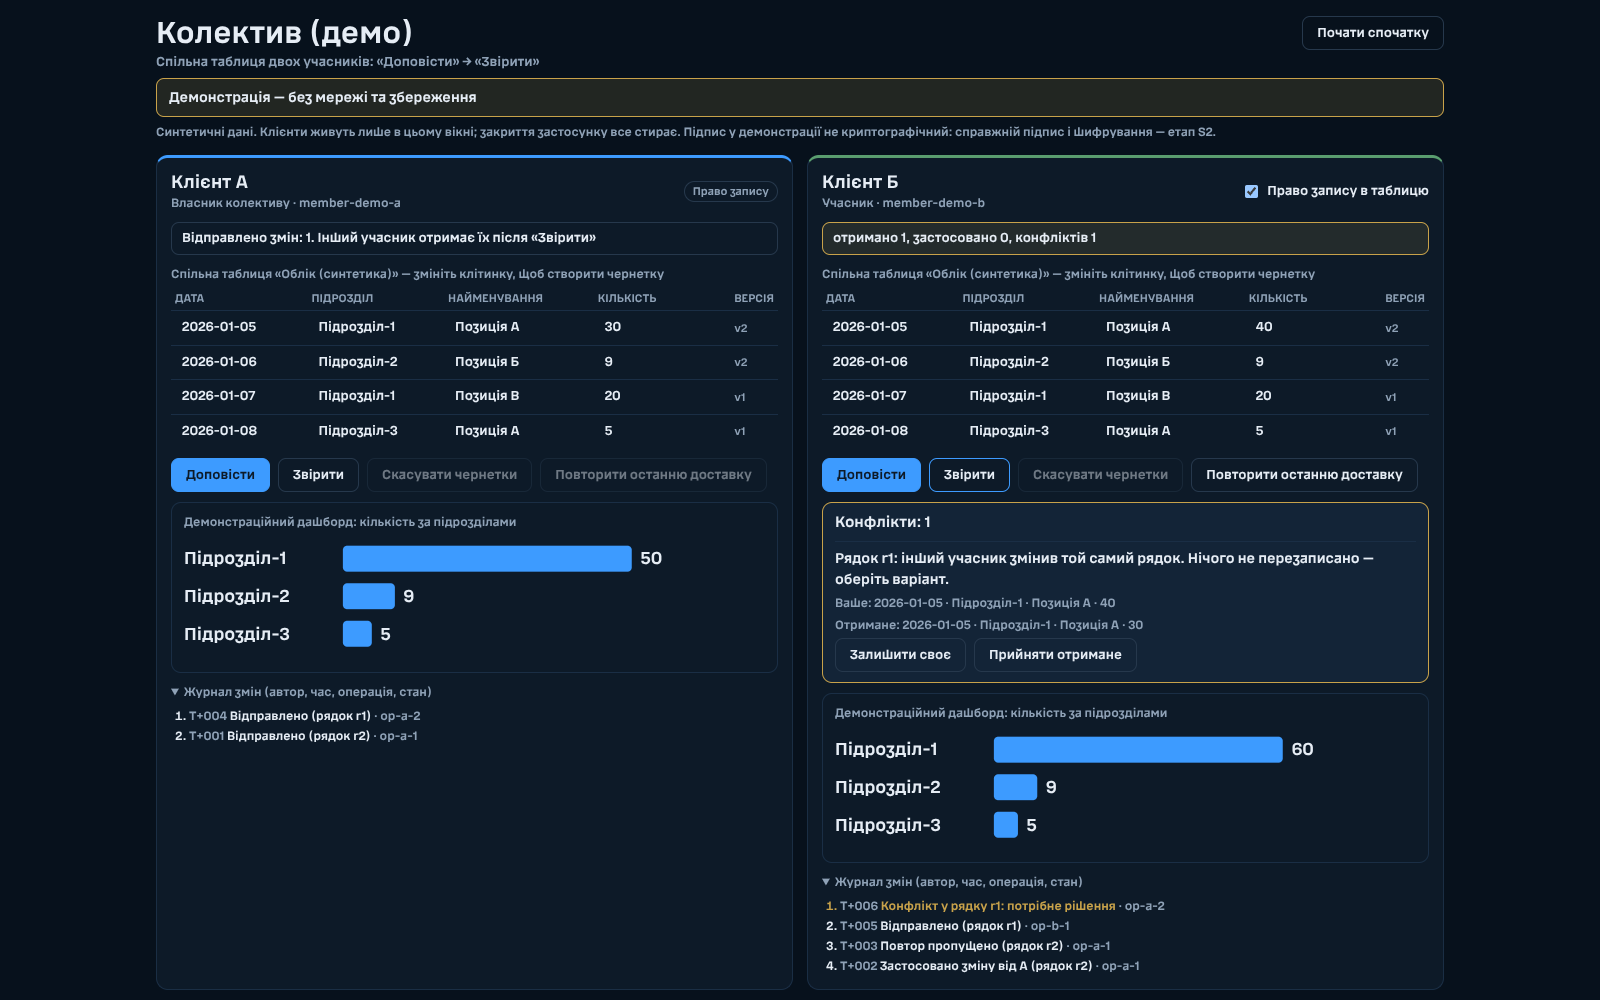
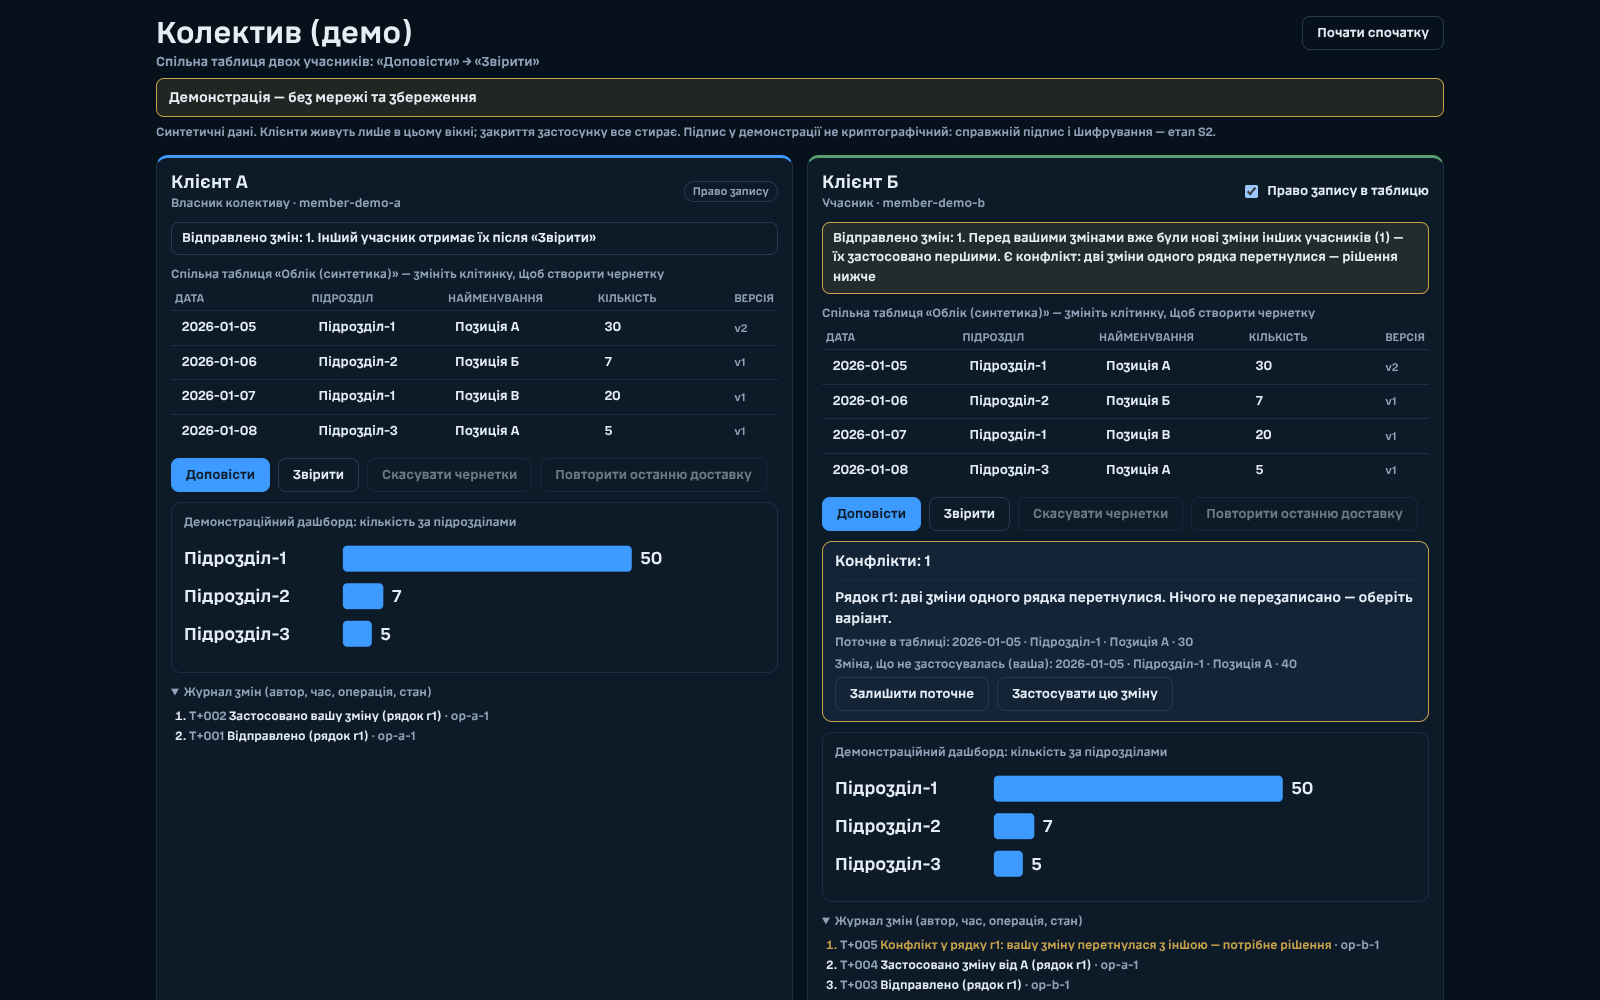
Колективи: демо застосовує операції в порядку журналу доставки — за рецензією C3
Свої операції клієнт застосовує в тому самому порядку, що й чужі, тож версії
рядків однакові в обох копіях, а перехресні правки дають однаковий конфлікт
замість мовчазного перезапису. Право запису перевіряється до чернетки
розв'язання; конфлікт збільшує ревізію таблиці; у тесті ізоляції — явний
перелік застосунків головного вікна. Регресійні тести.

Claude-Session: https://claude.ai/code/session_01UgydCL1Tj9zvxe8BSTeoMD

diff --git a/src/workspace/collective-demo/collective-demo-core.js b/src/workspace/collective-demo/collective-demo-core.js
@@ -2,8 +2,10 @@
 //
 // Логіку не дублюємо: операції, конфлікти й дублі — shared-table-core.js (C1b), перегляд і
 // фіксація «Доповісти» — report-submission-core.js (C1d), політики відправки й застосування —
-// sync-policy-core.js (C1d), маршрут за класом чутливості — sensitivity-core.js (C1a).
-// Тут лише стан двох демонстраційних клієнтів і «доставка» між ними.
+// sync-policy-core.js (C1d; маршрут за класом чутливості — sensitivity-core.js (C1a) через evaluateOutbound).
+// Тут лише стан двох демонстраційних клієнтів і «доставка» між ними. «Доставка» — один спільний
+// упорядкований журнал (як квитанції сховища): кожен клієнт застосовує операції саме в цьому порядку,
+// і свої теж, тому версії рядків однакові в усіх копіях, а перехресні правки дають конфлікт.
 //
 // Чесні межі S1 (наказ JE 29.10.2026):
 // - доставка — масив у пам'яті вікна, мережі немає; після закриття застосунку все зникає;
@@ -156,78 +158,82 @@ export function openReport(demo, clientId) {
   return { ok: true, preview: client.preview };
 }
 
-/** «Підтвердити» після перегляду: фіксація рівно показаних операцій, застосування в себе й «доставка». */
+/**
+ * «Підтвердити» після перегляду: фіксація рівно показаних операцій і «доставка» в спільний журнал.
+ * Свої операції застосовуються в порядку журналу разом із чужими, що прийшли раніше (як після
+ * квитанції сховища): якщо інший учасник устиг змінити той самий рядок, обидві копії побачать
+ * однаковий конфлікт, а не мовчазний перезапис.
+ */
 export function confirmReport(demo, clientId) {
   const client = demo.clients[clientId];
   const committed = commitReport(client.preview, { currentRevision: client.revision, confirmedDeletions: [] });
   if (!committed.ok) return committed;
-  // У себе операції застосовує те саме ядро, що й в отримувача; розв'язання конфлікту — через
-  // resolveConflict, який закриває саме названий конфлікт лише разом із застосуванням.
-  let table = client.table;
-  for (const op of committed.ops) {
-    const conflictId = client.resolutions[op.op_id];
-    const applied = conflictId
-      ? resolveConflict(table, conflictId, op, applyOptions(demo))
-      : applyOperation(table, op, applyOptions(demo));
-    if (applied.status !== 'applied') {
-      log(demo, client, 'rejected', `Не відправлено: ${reasonText(applied.reason)}`);
-      return { ok: false, code: applied.reason, reason: reasonText(applied.reason) };
-    }
-    table = applied.state;
-  }
-  client.table = table;
-  client.resolutions = {};
-  client.revision += 1;
-  for (const op of committed.ops) {
-    demo.channel.push({ op, from: clientId });
-    log(demo, client, 'stored', `Відправлено (рядок ${op.row_key})`, op.op_id);
-  }
+  const before = demo.channel.length;
+  for (const op of committed.ops) demo.channel.push({ op, from: clientId });
+  for (const op of committed.ops) log(demo, client, 'stored', `Відправлено (рядок ${op.row_key})`, op.op_id);
+  const crossed = demo.channel.slice(client.cursor, before).length;
+  const summary = applyEntries(demo, clientId, demo.channel.slice(client.cursor));
+  client.cursor = demo.channel.length;
   client.pending = [];
   client.preview = null;
-  return { ok: true, count: committed.ops.length, reason: committed.reason };
+  client.resolutions = {};
+  const notes = [];
+  if (crossed) notes.push(`Перед вашими змінами вже були нові зміни інших учасників (${crossed}) — їх застосовано першими`);
+  if (summary.conflicts) notes.push('Є конфлікт: дві зміни одного рядка перетнулися — рішення нижче');
+  return { ok: true, count: committed.ops.length, reason: committed.reason, notes, summary };
 }
 
-/** «Звірити»: отримати нові операції інших учасників і застосувати перевірене. */
+/** «Звірити»: отримати нові операції журналу й застосувати перевірене в тому самому порядку. */
 export function synchronize(demo, clientId) {
   const client = demo.clients[clientId];
-  const batch = demo.channel.slice(client.cursor).filter(entry => entry.from !== clientId).map(entry => entry.op);
+  const batch = demo.channel.slice(client.cursor);
   client.cursor = demo.channel.length;
   if (batch.length) client.lastBatch = batch;
-  return receive(demo, clientId, batch);
+  const summary = applyEntries(demo, clientId, batch);
+  if (batch.length === 0) log(demo, client, 'idle', 'Нових змін немає');
+  return summary;
 }
 
 /** Повторна доставка останнього отриманого пакета — перевірка, що дубль не застосовується двічі. */
 export function redeliver(demo, clientId) {
   const client = demo.clients[clientId];
   if (!client.lastBatch) return { applied: 0, skipped: 0, conflicts: 0, rejected: 0, received: 0 };
-  return receive(demo, clientId, client.lastBatch);
+  return applyEntries(demo, clientId, client.lastBatch);
 }
 
-function receive(demo, clientId, batch) {
+function applyEntries(demo, clientId, entries) {
   const client = demo.clients[clientId];
-  const summary = { received: batch.length, applied: 0, skipped: 0, conflicts: 0, rejected: 0 };
-  for (const op of batch) {
-    const result = applyOperation(client.table, op, applyOptions(demo));
+  const summary = { received: entries.length, applied: 0, skipped: 0, conflicts: 0, rejected: 0 };
+  for (const { op, from } of entries) {
+    const own = from === clientId;
+    const conflictId = own ? client.resolutions[op.op_id] : undefined;
+    const result = conflictId && client.table.conflicts.some(c => c.conflictId === conflictId && c.resolvedBy === null)
+      ? resolveConflict(client.table, conflictId, op, applyOptions(demo))
+      : applyOperation(client.table, op, applyOptions(demo));
     const inbound = evaluateInbound({ policy: demo.policy.inbound, applyStatus: result.status, kind: op.kind });
     const who = op.author_member_id === CLIENTS.A.memberId ? 'А' : 'Б';
+    const subject = own ? 'вашу зміну' : `зміну від ${who}`;
     if (inbound.action === 'apply') {
       summary.applied += 1;
-      log(demo, client, 'applied', `Застосовано зміну від ${who} (рядок ${op.row_key})`, op.op_id);
+      log(demo, client, 'applied', `Застосовано ${subject} (рядок ${op.row_key})`, op.op_id);
     } else if (inbound.action === 'skip') {
       summary.skipped += 1;
       log(demo, client, 'duplicate', `Повтор пропущено (рядок ${op.row_key})`, op.op_id);
     } else if (inbound.action === 'conflict') {
       summary.conflicts += 1;
-      log(demo, client, 'conflict', `Конфлікт у рядку ${op.row_key}: потрібне рішення`, op.op_id);
+      log(demo, client, 'conflict', `Конфлікт у рядку ${op.row_key}: ${subject} перетнулася з іншою — потрібне рішення`, op.op_id);
     } else {
       summary.rejected += 1;
-      log(demo, client, 'rejected', `Відхилено зміну від ${who}: ${reasonText(result.reason)}`, op.op_id);
+      // S1 не зберігає відхилене: S2 має класти такі операції в карантин, а не губити їх.
+      log(demo, client, 'rejected', `Відхилено ${subject}: ${reasonText(result.reason)}`, op.op_id);
     }
-    // Стан змінюється лише тим, що повернуло ядро: застосування, дубль без змін, конфлікт у журналі.
-    if (result.status === 'applied' || result.status === 'conflict') client.table = result.state;
-    if (result.status === 'applied') client.revision += 1;
+    // Стан змінюється лише тим, що повернуло ядро; конфлікт теж змінює стан (журнал конфліктів),
+    // тож ревізія росте й старий перегляд «Доповісти» більше не підтвердити.
+    if (result.status === 'applied' || result.status === 'conflict') {
+      client.table = result.state;
+      client.revision += 1;
+    }
   }
-  if (batch.length === 0) log(demo, client, 'idle', 'Нових змін немає');
   return summary;
 }
 
@@ -236,28 +242,26 @@ export function conflictsOf(demo, clientId) {
   const client = demo.clients[clientId];
   return openConflicts(client.table).map(conflict => {
     const row = client.table.rows[conflict.rowKey];
-    return { conflictId: conflict.conflictId, rowKey: conflict.rowKey, mine: row ? row.values : null, theirs: conflict.op.values, reason: conflict.reason };
+    const author = conflict.op.author_member_id === CLIENTS[clientId].memberId ? 'ваша' : (conflict.op.author_member_id === CLIENTS.A.memberId ? 'від А' : 'від Б');
+    return { conflictId: conflict.conflictId, rowKey: conflict.rowKey, mine: row ? row.values : null, theirs: conflict.op.values, author, reason: conflict.reason };
   });
 }
 
 /**
  * Розв'язання конфлікту рішенням людини: «keep-mine» — залишити поточне значення, «take-theirs» —
- * прийняти отримане. Розв'язання — нова чернетка від поточної версії рядка; вона піде іншим
+ * застосувати зміну, що не пройшла. Розв'язання — нова чернетка від поточної версії рядка; вона піде іншим
  * через «Доповісти», як будь-яка правка (К6).
  */
 export function resolve(demo, clientId, conflictId, choice) {
   const client = demo.clients[clientId];
   const conflict = conflictsOf(demo, clientId).find(item => item.conflictId === conflictId);
   if (!conflict) return { ok: false, reason: 'Конфлікт уже розв\'язано' };
+  if (!canWrite(demo, clientId)) return { ok: false, reason: 'Розв\'язати конфлікт може лише учасник із правом запису' };
   const values = choice === 'take-theirs' ? conflict.theirs : conflict.mine;
   const draft = editRow(demo, clientId, conflict.rowKey, values);
   if (!draft.ok) return draft;
-  if (!canWrite(demo, clientId)) {
-    client.pending = client.pending.filter(op => op.op_id !== draft.op.op_id);
-    return { ok: false, reason: 'Розв\'язати конфлікт може лише учасник із правом запису' };
-  }
   client.resolutions[draft.op.op_id] = conflictId;
-  log(demo, client, 'resolved', `Рішення щодо рядка ${conflict.rowKey}: ${choice === 'take-theirs' ? 'прийняти отримане' : 'залишити своє'} — у чернетці`, draft.op.op_id);
+  log(demo, client, 'resolved', `Рішення щодо рядка ${conflict.rowKey}: ${choice === 'take-theirs' ? 'застосувати зміну' : 'залишити поточне'} — у чернетці`, draft.op.op_id);
   return { ok: true, reason: 'Рішення стоїть у чернетці: натисніть «Доповісти», щоб застосувати його й передати іншим' };
 }
 

diff --git a/src/workspace/collective-demo/app.js b/src/workspace/collective-demo/app.js
@@ -198,7 +198,7 @@ export async function mount(container) {
     actions.append(
       button('Підтвердити й відправити', () => {
         const sent = confirmReport(demo, clientId);
-        say(clientId, sent.ok ? `Відправлено змін: ${sent.count}. Інший учасник отримає їх після «Звірити»` : sent.reason, sent.ok ? 'info' : 'warn');
+        say(clientId, sent.ok ? `Відправлено змін: ${sent.count}. ${sent.notes.length ? sent.notes.join('. ') : 'Інший учасник отримає їх після «Звірити»'}` : sent.reason, sent.ok && !sent.summary.conflicts ? 'info' : 'warn');
         render();
       }, { primary: true }),
       button('Скасувати', () => { demo.clients[clientId].preview = null; render(); }),
@@ -213,12 +213,12 @@ export async function mount(container) {
     for (const conflict of conflicts) {
       const item = el('div', 'cd-conflict');
       item.append(
-        el('p', '', `Рядок ${conflict.rowKey}: інший учасник змінив той самий рядок. Нічого не перезаписано — оберіть варіант.`),
-        el('p', 'cd-muted', `Ваше: ${COLUMNS.map(c => formatCell(conflict.mine && conflict.mine[c])).join(' · ')}`),
-        el('p', 'cd-muted', `Отримане: ${COLUMNS.map(c => formatCell(conflict.theirs && conflict.theirs[c])).join(' · ')}`),
+        el('p', '', `Рядок ${conflict.rowKey}: дві зміни одного рядка перетнулися. Нічого не перезаписано — оберіть варіант.`),
+        el('p', 'cd-muted', `Поточне в таблиці: ${COLUMNS.map(c => formatCell(conflict.mine && conflict.mine[c])).join(' · ')}`),
+        el('p', 'cd-muted', `Зміна, що не застосувалась (${conflict.author}): ${COLUMNS.map(c => formatCell(conflict.theirs && conflict.theirs[c])).join(' · ')}`),
       );
       const actions = el('div', 'cd-actions');
-      for (const [choice, label] of [['keep-mine', 'Залишити своє'], ['take-theirs', 'Прийняти отримане']]) {
+      for (const [choice, label] of [['keep-mine', 'Залишити поточне'], ['take-theirs', 'Застосувати цю зміну']]) {
         actions.append(button(label, () => {
           const decided = resolve(demo, clientId, conflict.conflictId, choice);
           say(clientId, decided.reason, decided.ok ? 'info' : 'warn');

diff --git a/docs/evidence/collectives/s1/2026-10-29-s1-demo.md b/docs/evidence/collectives/s1/2026-10-29-s1-demo.md
@@ -17,4 +17,12 @@
 
 Консоль: одна помилка 404 (favicon сторінки застосунку, як і до змін). Порушень і винятків сторінки немає.
 
+## Після рецензії C3 (PR #196)
+
+C3 (PASS_WITH_CONDITIONS): своя операція застосовувалась до впорядкування, тож друга правка могла затерти чужу
+без конфлікту. Виправлено: обидва клієнти застосовують операції в одному порядку журналу «доставки», свої теж;
+перехресні правки дають однаковий конфлікт в обох копіях. Регресійні тести: «регресія C3…», «застарілий перегляд…».
+Також: право запису перевіряється до створення чернетки розв'язання; конфлікт збільшує ревізію таблиці; у тесті
+ізоляції «Офісу» — явний перелік застосунків головного вікна. Повторний сценарій у Chromium — нижче.
+
 Не перевірено: настільне вікно Tauri (WebKitGTK, WebView2, WKWebView); Windows/macOS.
